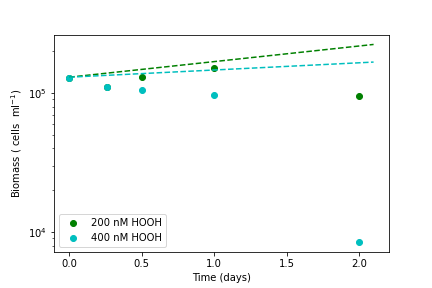
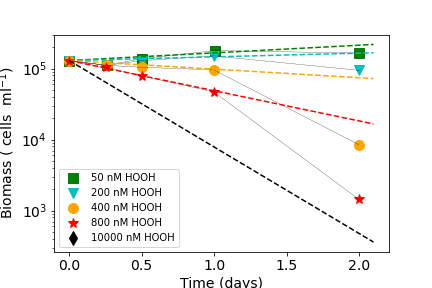
colloquiem

diff --git a/src/fig1_Pro_graphed.py b/src/fig1_Pro_graphed.py
@@ -41,7 +41,7 @@ df_all = df_all.rename({'Time(days)':'times'}, axis=1)    #'renaming column to m
 ####################################
 
 
-treatments = [50,200,400,800,1000]  #HOOH nM []
+treatments = [50,200,400,800,10000]  #HOOH nM []   #1000 or 10000 nM HOOH for last treatment....kdam no longer saturation if later case
 treatments_smol = treatments[1:3]
 dc = dict()
 
@@ -57,23 +57,29 @@ for i in treatments:
 #graphing
 
 #########################
+plt.rcParams['font.size'] = 14
 
 fig1,ax1 = plt.subplots()
 
 colors = ('green', 'c', 'orange', 'r', 'k') #make into a set in loop? for c in colors, color = count(c)?????
+markers = ('s','v','o','*','d')
 #for df_i in dc:
-for t in treatments_smol: 
-    count = treatments_smol.index(t)
+for t in treatments: 
+    count = treatments.index(t)
     #print(count)
     df = dc['df_'+str(t)]
     times = df['times']
     data = df['avg_exp'] #data was loggeed in original graph; transformed in excel before read in
-    ax1.plot(times, data, linestyle = 'None', marker= 'o', label = (str(t) +' nM HOOH'), color = colors[count])  #color = colors(i))
+    ax1.plot(times, data, linestyle = 'None', marker= markers[count], markersize= 10, label = (str(t) +' nM HOOH'), color = colors[count])  #color = colors(i))
+    ax1.plot(times,data,linestyle='-', linewidth=0.25, color='black', marker = 'None')
 #plt.show()
 ax1.set(xlabel= 'Time (days)', ylabel='Biomass ( cells  ml$^{-1}$)')
 ax1.set_title = ('Prochlorococcus U18301 w/ HOOH') #not showing up for some reason? 
-ax1.legend(loc = 'lower left')
+ax1.legend(loc = 'lower left', prop={"size":10})
 ax1.semilogy()
+plt.xticks(fontsize = 14)
+plt.yticks(fontsize = 14)
+
 
 ############################
 
@@ -105,7 +111,7 @@ P = (5e5) # units are cells per mL
 #parameter values (k1 = alpha, k2 = Vmax, kdam = initial HOOH damage, kddam = HOOH damage when N runs out)
 k1s = np.r_[[0.02, 0.02, 0.02, 0.02, 0.02]]*1e+100     
 k2s = [0.32, 0.32, 0.32, 0.32, 0.32]
-kdams = [0.06,0.2, 0.6, 1.3, 3]
+kdams = [0.07,0.2, 0.6, 1.3, 3.1]
 kddams = [0.03, 0.5, 2, 2, 1.4]
 
 params = list(zip(k1s,k2s,kdams,kddams))
@@ -115,8 +121,8 @@ fig2,ax2 = plt.subplots()
 #data = df['avg_exp']
 #S_base =  (data.max()- data.iloc[0])*Qn 
 
-for t in treatments_smol: 
-    count = treatments_smol.index(t)
+for t in treatments: 
+    count = treatments.index(t)
     k1 = params[count][0]
     k2 = params[count][1]
     kdam = params[count][2]
@@ -152,11 +158,21 @@ for t in treatments_smol:
     ax1.plot(times,(PsEuler), linestyle = 'dashed', color = colors[count]) 
     ax2.plot(times,(SsEuler), linestyle = 'dashed', color = colors[count])
 
-a2_legend = [zip(treatments,colors)]
-ax2.set(xlabel= 'Time (days)', ylabel='Nitrogen ( nM  ml$^{-1}$)')
+
+    
+#ax2_legend = [zip(treatments,colors)]  #ipz doesn't give a printable object for legend to show
+ax2.set(xlabel= 'Time (days)', ylabel='Nitrogen (nM)')
 ax2.set_title = ('Nutrient dynamics') #not showing up for some reason? 
 #ax2.legend([(list(a2_legend))] ,loc = 'lower left')
 ax2.semilogy()
+
+fig3,ax3 = plt.subplots()
+
+for y, c, m, in zip(kdams, colors, markers):
+    ax3.plot(kdams, treatments,linestyle = 'none', color = c, marker = m)
+#ax3.plot(kdams,treatments,linestyle = 'none', marker=markers[kdam[]],color=colors[count])
+ax3.set(xlabel= 'HOOH treatment (nM)', ylabel='kdam (day$^{-1}$)')
+ax3.semilogy()
 plt.show()
 
 
